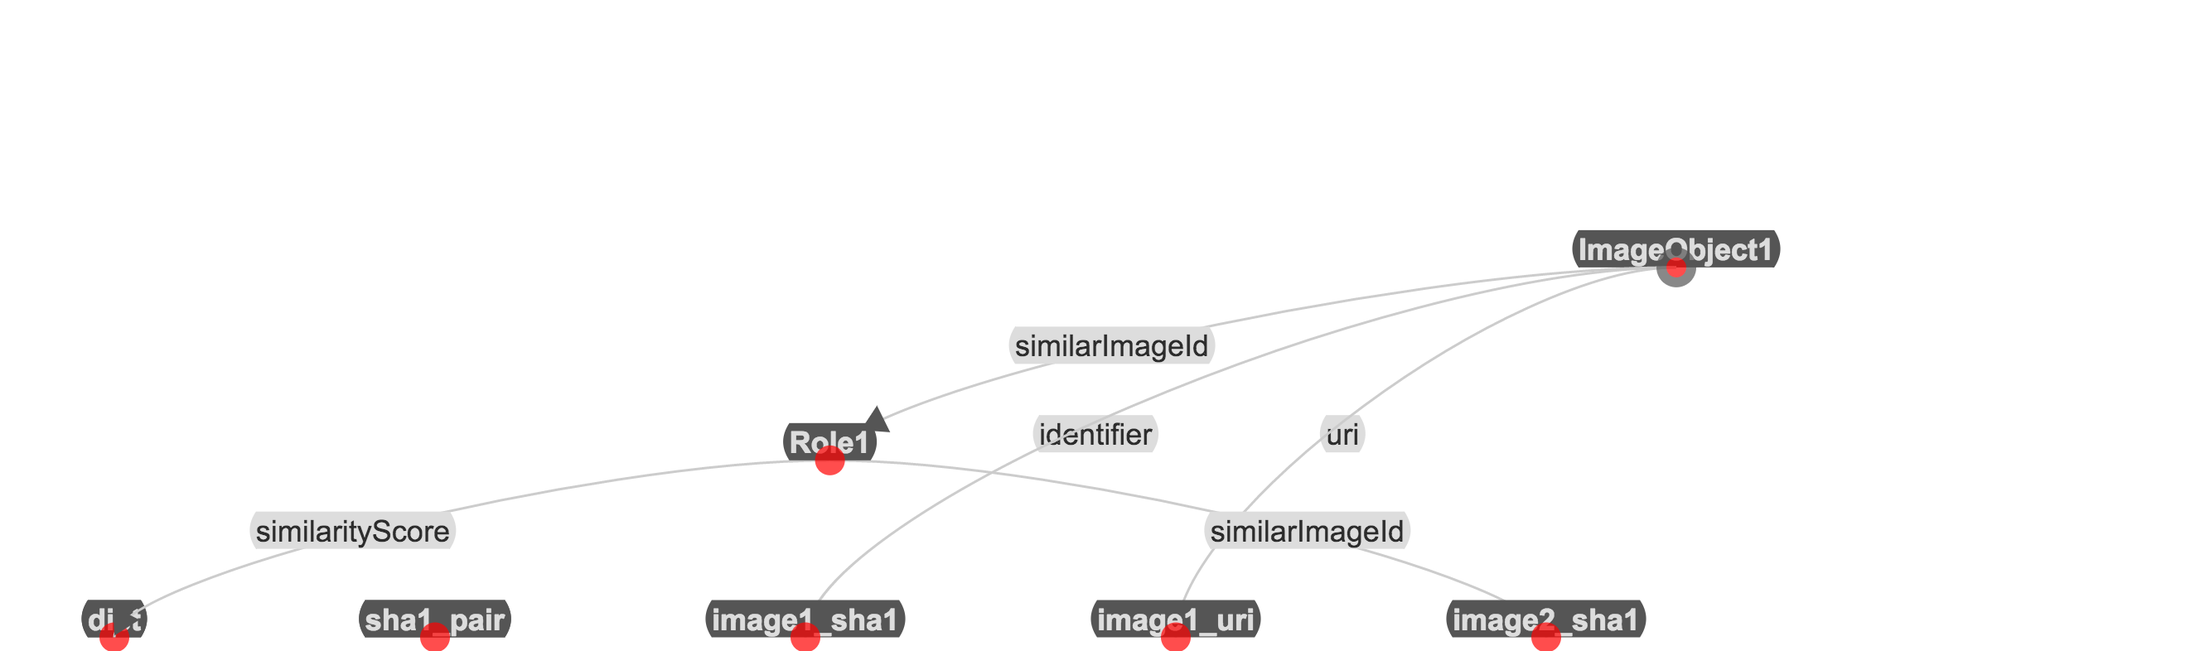
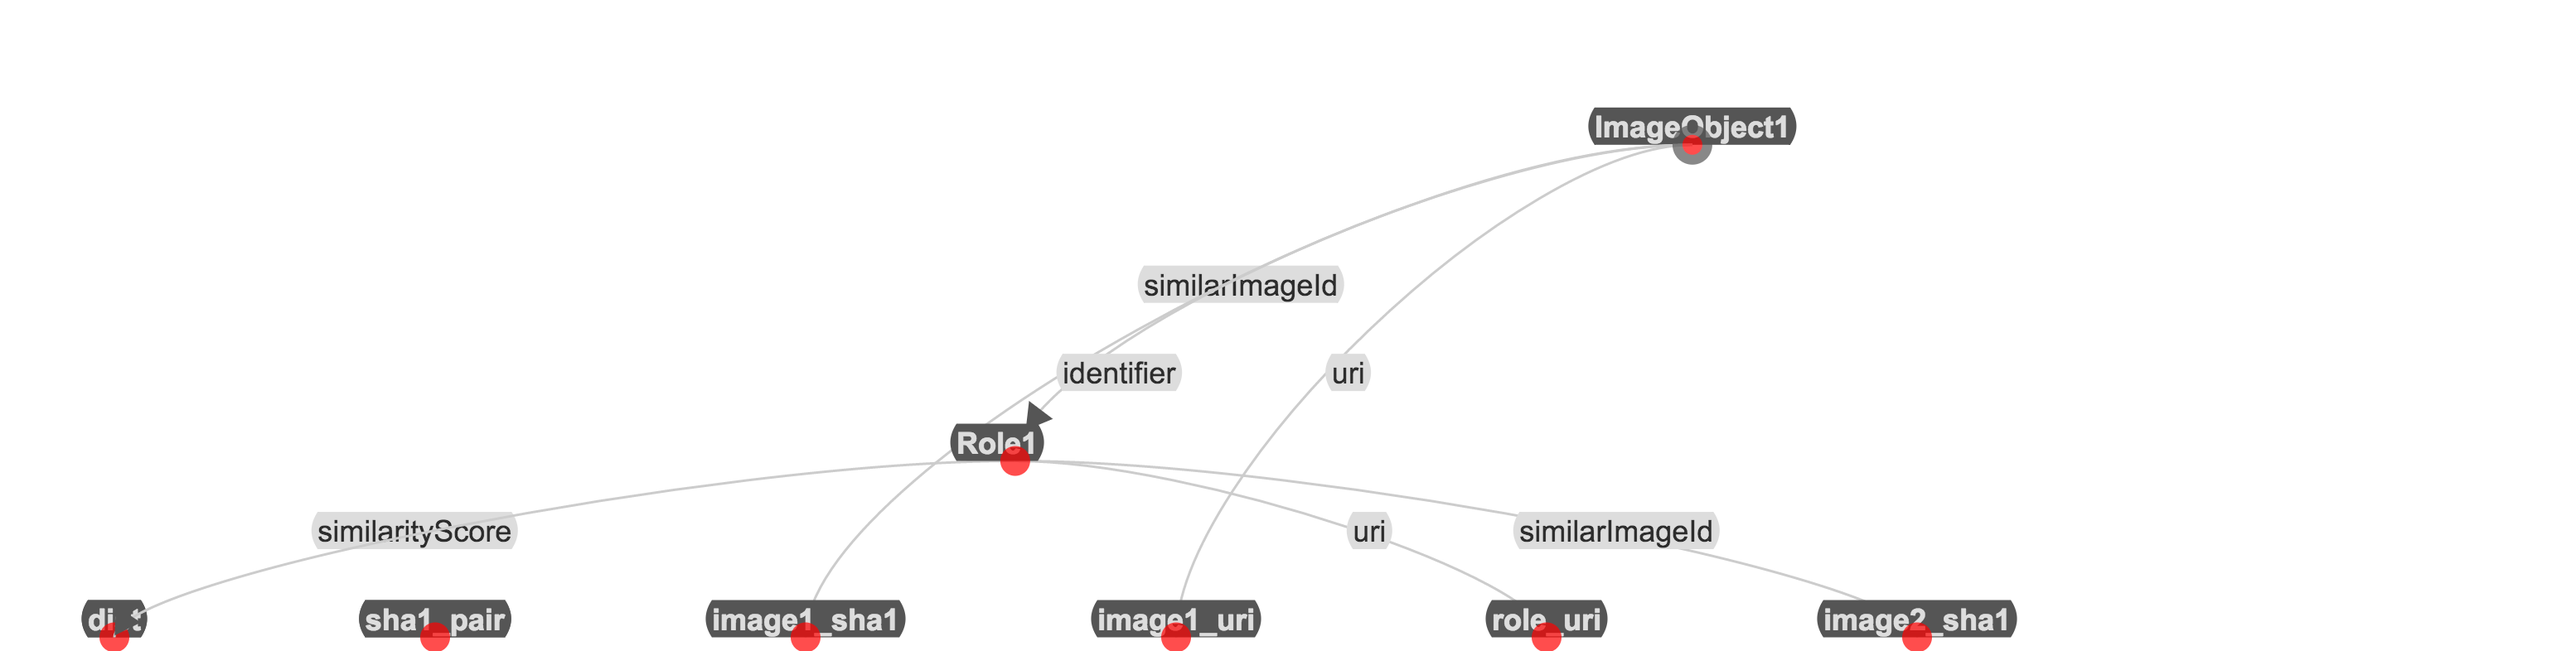
add role uri to image distance model

diff --git a/versions/3.0/datasets/ht/CDRv2/images/image-distance/image-distance-model.md b/versions/3.0/datasets/ht/CDRv2/images/image-distance/image-distance-model.md
@@ -19,6 +19,12 @@ From column: _image1_sha1_
 return getValue("image1_sha1")
 ```
 
+#### _role_uri_
+From column: _image1_uri_
+>``` python
+return getValue("image1_sha1") + "/role"
+```
+
 
 ### Semantic Types
 | Column | Property | Class |
@@ -27,6 +33,7 @@ return getValue("image1_sha1")
 | _image1_sha1_ | `memex:identifier` | `schema:ImageObject1`|
 | _image1_uri_ | `uri` | `schema:ImageObject1`|
 | _image2_sha1_ | `memex:similarImageId` | `schema:Role1`|
+| _role_uri_ | `uri` | `schema:Role1`|
 
 
 ### Links
